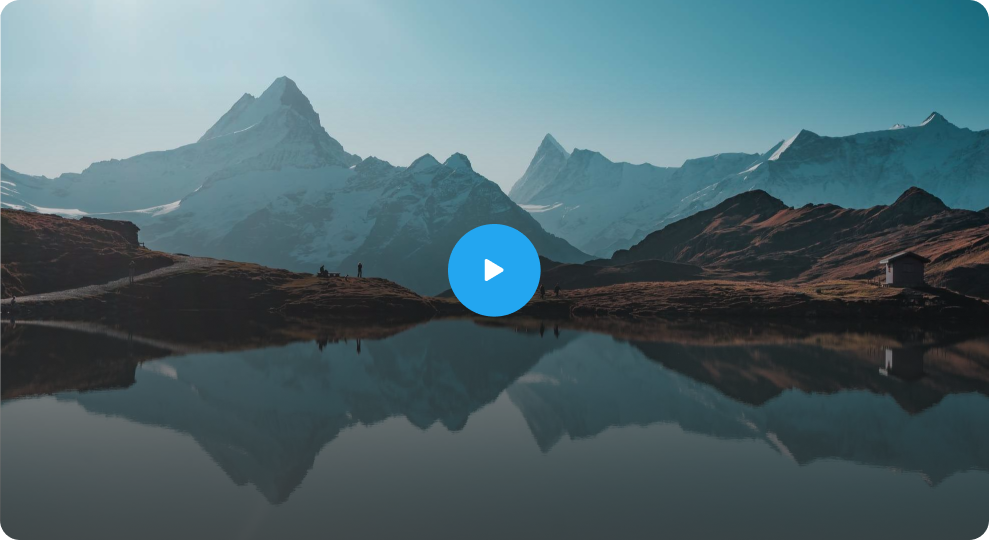
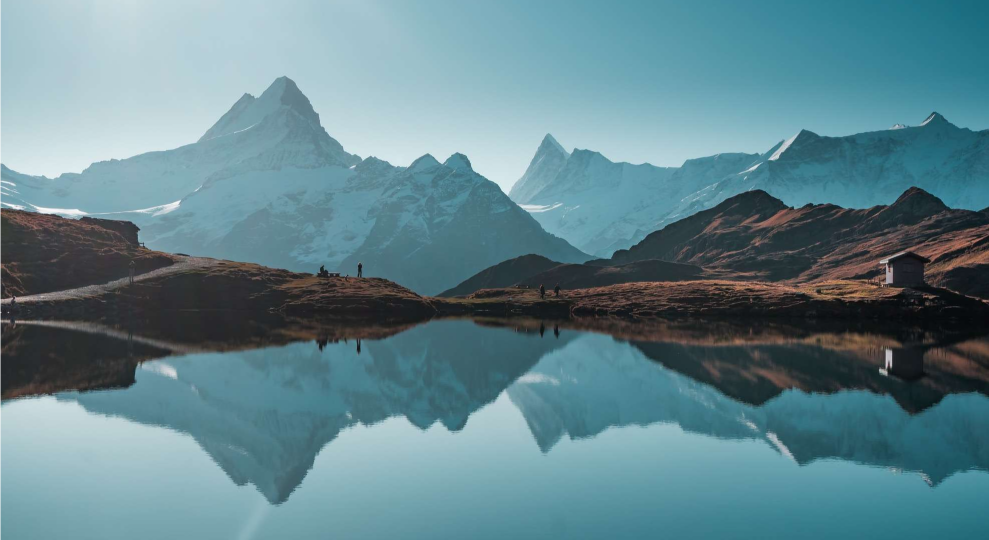
bandage-app

diff --git a/src/app/Blog/page.tsx b/src/app/Blog/page.tsx
@@ -1,0 +1,180 @@
+"use client";
+import React, { useState } from 'react';
+import Image from 'next/image';
+import Link from 'next/link';
+import { FaTwitter, FaFacebookSquare, FaInstagram, FaLinkedin, FaFacebook } from "react-icons/fa";
+import Footer from '../Homepage/Footer';
+import NavMobile from '../Homepage/MobileNav';
+
+const LandingPage = () => {
+  const [showNav, setShowNav] = useState(false);
+  const team = [
+    { username: "Username", profession: "Profession" , image: "/assets/team/team-1-user-1.png" },
+    { username: "Username", profession: "Profession" , image: "/assets/team/media.png" },
+    { username: "Username", profession: "Profession" , image: "/assets/team/team-1-user-3.png" },
+    { username: "Username", profession: "Profession" , image: "/assets/team/media-1.png" },
+    { username: "Username", profession: "Profession" , image: "/assets/team/team-1-user-2.png" },
+    { username: "Username", profession: "Profession" , image: "/assets/team/team-1-user-3-1.png" },
+    { username: "Username", profession: "Profession" , image: "/assets/team/media-2.png" },
+    { username: "Username", profession: "Profession" , image: "/assets/team/media-3.png" },
+    { username: "Username", profession: "Profession" , image: "/assets/team/team-1-user-3-2.png" },
+  ];
+  
+  const Fashion = [
+    { title: "Coat", image: "/assets/black (2).png" },
+    { title: "Jeans Jackets", image: "/assets/black (5).png" },
+    { title: "Hoodies", image: "/assets/black (1).png" },
+    { title: "Shirts", image: "/assets/black (4).png" },
+  ];
+
+  return (
+    <div className="min-h-screen font-family">
+      <header>
+      {/* Navigation */}
+      <nav className="md:flex justify-between items-center hidden p-4 sticky top-0 bg-white/80 backdrop-blur-sm z-50">
+        <div className="text-2xl font-bold md:ml-3 hover:text-sky-500 transition-colors duration-300">Bandage</div>
+        <div className="hidden md:flex space-x-6">
+          {['Home', 'Product', 'Pricing', 'Contact'].map((item) => (
+            <Link 
+              key={item} 
+              href={`/${item === 'Home' ? '' : item}`} 
+              className="relative after:content-[''] after:absolute after:w-full after:scale-x-0 after:h-0.5 after:bottom-0 after:left-0 after:bg-sky-500 after:transition-transform after:duration-300 hover:after:scale-x-100 hover:text-sky-500 transition-colors duration-300"
+            >
+              {item}
+            </Link>
+          ))}
+        </div>
+        <div className="flex items-center space-x-4">
+          <button className="text-sky-500 transition-all duration-300 hover:text-sky-600 hover:scale-105">Login</button>
+          <button className="bg-sky-500 text-white px-4 py-2 rounded transition-all duration-300 hover:bg-sky-600 hover:shadow-lg hover:scale-105">
+            Become a member
+          </button>
+        </div>
+         
+      </nav>
+       {/* Mobile Navigation */}
+       <div className="md:hidden ">
+      <h1 className="text-2xl font-bold text-center py-6">Bandage</h1>
+        <button 
+          onClick={() => setShowNav(true)}
+          className="p-4 text-gray-600 absolute right-0 top-0"
+        >
+          <svg className="w-6 h-6" fill="none" stroke="currentColor" viewBox="0 0 24 24">
+            <path strokeLinecap="round" strokeLinejoin="round" strokeWidth={2} d="M4 6h16M4 12h16m-7 6h7" />
+          </svg>
+        </button>
+       
+        <NavMobile showNav={showNav} closeNav={() => setShowNav(false)} />
+      </div>
+      </header>
+
+      {/* Hero Section */}
+      <section className="text-center py-16">
+        <p className="text-gray-600 mb-2 hover:text-sky-500 transition-colors duration-300">WHAT WE DO</p>
+        <h1 className="text-6xl md:text-6xl font-bold mb-4 hover:text-sky-500 transition-colors duration-300 sm:p-6">Innovation tailored for you</h1>
+        <div className="flex items-center justify-center space-x-2">
+          <Link href="/" className="text-gray-600 hover:text-sky-500 transition-colors duration-300">Home</Link>
+          <span>{">"}</span>
+          <Link href="/Blog" className="text-gray-900 hover:text-sky-500 transition-colors duration-300">Team</Link>
+        </div>
+      </section>
+
+      {/* Gallery Grid */}
+      <div className="grid grid-cols-1 md:grid-cols-3 gap-4 p-4">
+        <div className="md:col-span-1 h-100 relative overflow-hidden group">
+          <Image 
+            src="/assets/black (3).png" 
+            alt="Fashion model" 
+            width={700} 
+            height={530} 
+            className="w-full h-full object-cover transition-transform duration-500 group-hover:scale-110"
+          />
+        </div>
+        <div className="md:col-span-2 grid grid-cols-2 gap-4">
+          {Fashion.map((item, index) => (
+            <div key={index} className="md:h-46 h-80 overflow-hidden group relative">
+              <Image 
+                src={item.image} 
+                alt="Fashion item" 
+                width={361} 
+                height={260} 
+                className="w-full h-full object-cover transition-transform duration-500 group-hover:scale-110"
+              />
+              <div className="absolute inset-0 bg-black/50 opacity-0 group-hover:opacity-100 transition-opacity duration-300 flex items-center justify-center">
+                <h3 className="text-white text-xl transform translate-y-4 group-hover:translate-y-0 transition-transform duration-300">
+                  {item.title}
+                </h3>
+              </div>
+            </div>
+          ))}
+        </div>
+      </div>
+
+      {/* Team Section */}
+      <section className="py-16 px-4">
+        <h2 className="text-3xl font-bold text-center mb-12 hover:text-sky-500 transition-colors duration-300">Meet Our Team</h2>
+        <div className="grid grid-cols-1 md:grid-cols-2 lg:grid-cols-3 gap-8 max-w-6xl mx-auto">
+          {team.map((member, index) => (
+            <div key={index} className="text-center group">
+              <div className="mb-4 h-64 overflow-hidden relative">
+                <Image 
+                  src={member.image} 
+                  alt={member.username} 
+                  width={329} 
+                  height={231} 
+                  className="w-full h-full object-cover transition-transform duration-500 group-hover:scale-110"
+                />
+                <div className="absolute inset-0 bg-gradient-to-t from-black/50 to-transparent opacity-0 group-hover:opacity-100 transition-opacity duration-300" />
+              </div>
+              <h3 className="font-semibold text-lg group-hover:text-sky-500 transition-colors duration-300">{member.username}</h3>
+              <p className="text-gray-600 mb-3">{member.profession}</p>
+              <div className="flex justify-center space-x-4">
+                {[FaFacebook, FaInstagram, FaTwitter].map((Icon, i) => (
+                  <Icon 
+                    key={i} 
+                    className="text-2xl text-sky-500 transition-all duration-300 hover:text-sky-600 hover:scale-125 cursor-pointer"
+                  />
+                ))}
+              </div>
+            </div>
+          ))}
+        </div>
+      </section>
+
+      {/* CTA Section */}
+      <div className="bg-white flex flex-col items-center justify-center mt-4">
+        <h1 className="md:text-4xl font-bold mb-6 text-xl hover:text-sky-500 transition-colors duration-300">
+          Start your 14 days free trial
+        </h1>
+        <p className="text-md md:text-lg mb-8 hover:text-sky-500 transition-colors duration-300">
+          Met minim Mollie non desert Alamo est sit cliquy dolor do met sent. RELIT official consequent.
+        </p>
+        <button className="bg-sky-500 text-white font-bold py-2 px-4 rounded transition-all duration-300 hover:bg-sky-600 hover:shadow-lg hover:scale-105">
+          Try it free now
+        </button>
+        <div className="mt-8 flex space-x-6">
+          {[
+            { Icon: FaTwitter, color: "text-sky-500 hover:text-sky-600" },
+            { Icon: FaFacebookSquare, color: "text-blue-500 hover:text-blue-600" },
+            { Icon: FaInstagram, color: "text-black hover:text-pink-500" },
+            { Icon: FaLinkedin, color: "text-sky-700 hover:text-sky-800" }
+          ].map(({ Icon, color }, index) => (
+            <Link 
+              key={index} 
+              href="#" 
+              className={`${color} text-4xl transition-all duration-300 hover:scale-125`}
+            >
+              <Icon />
+            </Link>
+          ))}
+        </div>
+      </div>
+
+      <div className="mt-28">
+        <Footer />
+      </div>
+    </div>
+  );
+};
+
+export default LandingPage;

diff --git a/src/app/About/page.tsx b/src/app/About/page.tsx
@@ -4,6 +4,7 @@ import Link from 'next/link';
 import React, { useState } from 'react';
 import NavMobile from '../Homepage/MobileNav';
 import Footer from '../Homepage/Footer';
+import { FaPlay } from "react-icons/fa";
 
 const AboutUs: React.FC = () => {
     const [showNav, setShowNav] = useState(false);
@@ -116,7 +117,6 @@ const AboutUs: React.FC = () => {
             name: 'Lawrence',
             role: 'Developer',
             image: '/assets/media(1).png',
-            
             socials: ['facebook', 'twitter', 'linkedin']
           },
           {
@@ -133,7 +133,6 @@ const AboutUs: React.FC = () => {
           }
         ];
 
-
         return (
           <div className="w-full">
             {/* Hero Section */}
@@ -147,8 +146,8 @@ const AboutUs: React.FC = () => {
                   className="w-full h-full object-cover"
                 />
                 <div className="absolute inset-0 flex items-center justify-center">
-                  <div className="bg-blue-500 rounded-full p-4">
-                    <div className="w-8 h-8 bg-white rounded-full"></div>
+                  <div className="bg-blue-400  rounded-full p-4">
+                    <div> <FaPlay className='text-white text-lg'/></div>
                   </div>
                 </div>
               </div>
@@ -251,7 +250,7 @@ const AboutUs: React.FC = () => {
               <div className="w-full md:w-1/2 bg-blue-500 p-12 flex items-center justify-center">
                 <div className="text-white max-w-md">
                   <h3 className="text-sm uppercase mb-2">WORK WITH US</h3>
-                  <h2 className="text-3xl font-bold mb-4">Now Let&apos;s grow Yours</h2>
+                  <h2 className="text-3xl font-bold mb-4">Now Let's grow Yours</h2>
                   <p className="mb-6">
                     The brown fox jumps over a lazy dog. DJs flock by when MTV ax quiz prog.
                   </p>

diff --git a/src/app/Pricing/page.tsx b/src/app/Pricing/page.tsx
@@ -113,9 +113,9 @@ const PricingPage = () => {
           <h2 className="text-4xl font-bold text-gray-900">Simple Pricing</h2>
           
           <div className="flex justify-center items-center gap-2 text-sm">
-            <span className="text-gray-900">Home</span>
+            <Link href="/" className="text-gray-900">Home</Link>
             <span>{">"}</span>
-            <span className="text-gray-600">Pricing</span>
+            <Link href="/Pricing" className="text-gray-600">Pricing</Link>
           </div>
         </div>
 
